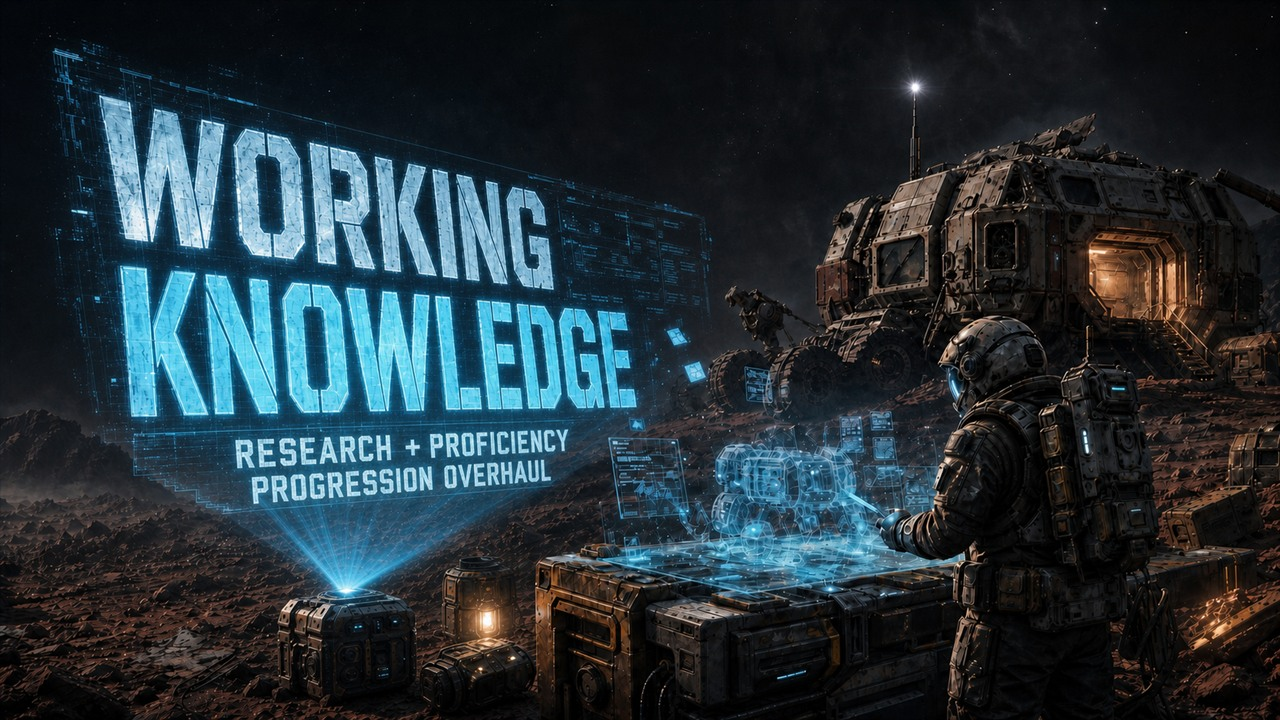
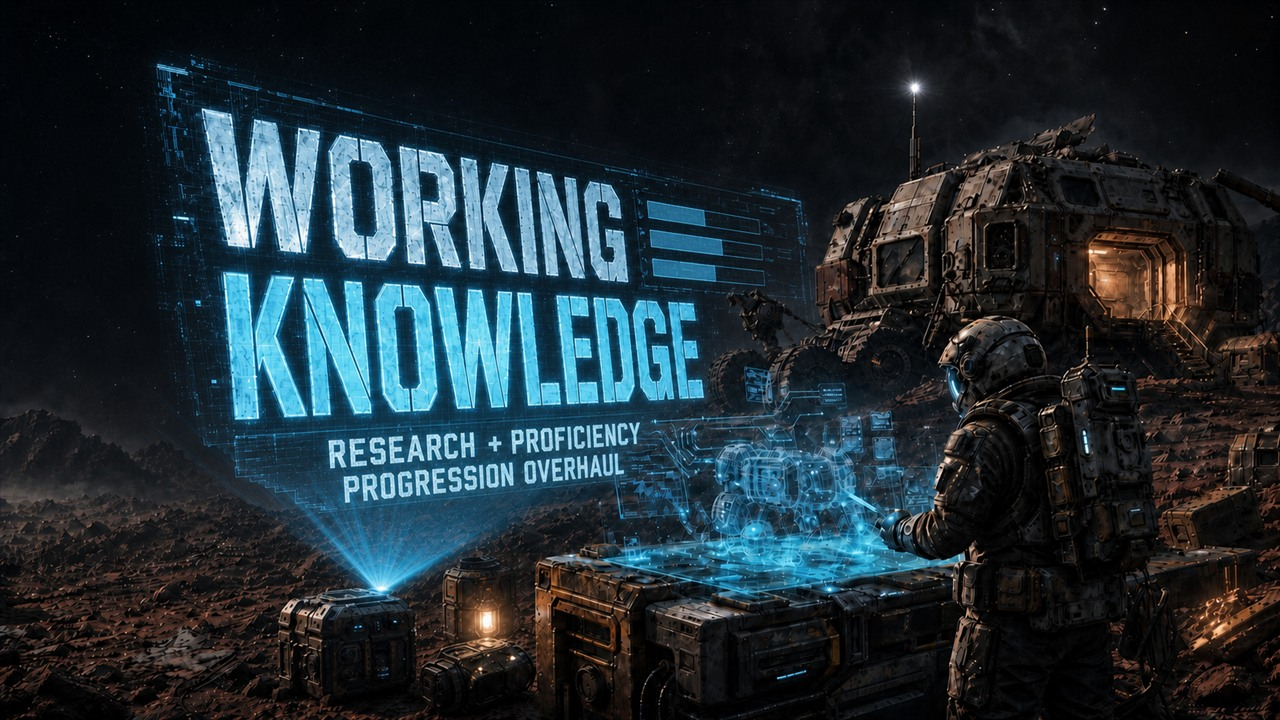
art: unify thumbnail research display

diff --git a/docs/WorkingKnowledge/changelog.md b/docs/WorkingKnowledge/changelog.md
@@ -27,7 +27,7 @@ Kept complete vanilla variant sets in one schematic family. In particular, the S
 
 Regenerated vanilla research bindings, hidden unlockers, exact Data Schematics, the runtime catalog, block-variant overrides, radial-menu data, and balance audits from the current 1.210 game definitions.
 
-Replaced the Workshop thumbnail with cohesive field-engineering key art. The title is now an in-world holographic research projection instead of a flat text panel, with an integrated descriptor identifying the mod as a Research and Proficiency progression overhaul. The final composition lowers the projector, enlarges the title, and gives the descriptor more breathing room while preserving the atmospheric engineer, research table, and habitat scene.
+Replaced the Workshop thumbnail with cohesive field-engineering key art. The title is now an in-world holographic research projection instead of a flat text panel, with an integrated descriptor identifying the mod as a Research and Proficiency progression overhaul. The final composition lowers the projector, enlarges and recenters the title, and visually connects the projection to the engineer's research console. A muted cyan bar graph and technical traces fill the panel's negative space without competing with the atmospheric engineer, research table, and habitat scene.
 
 ## 0.13.0 - Extensible Schematic Groups
 
